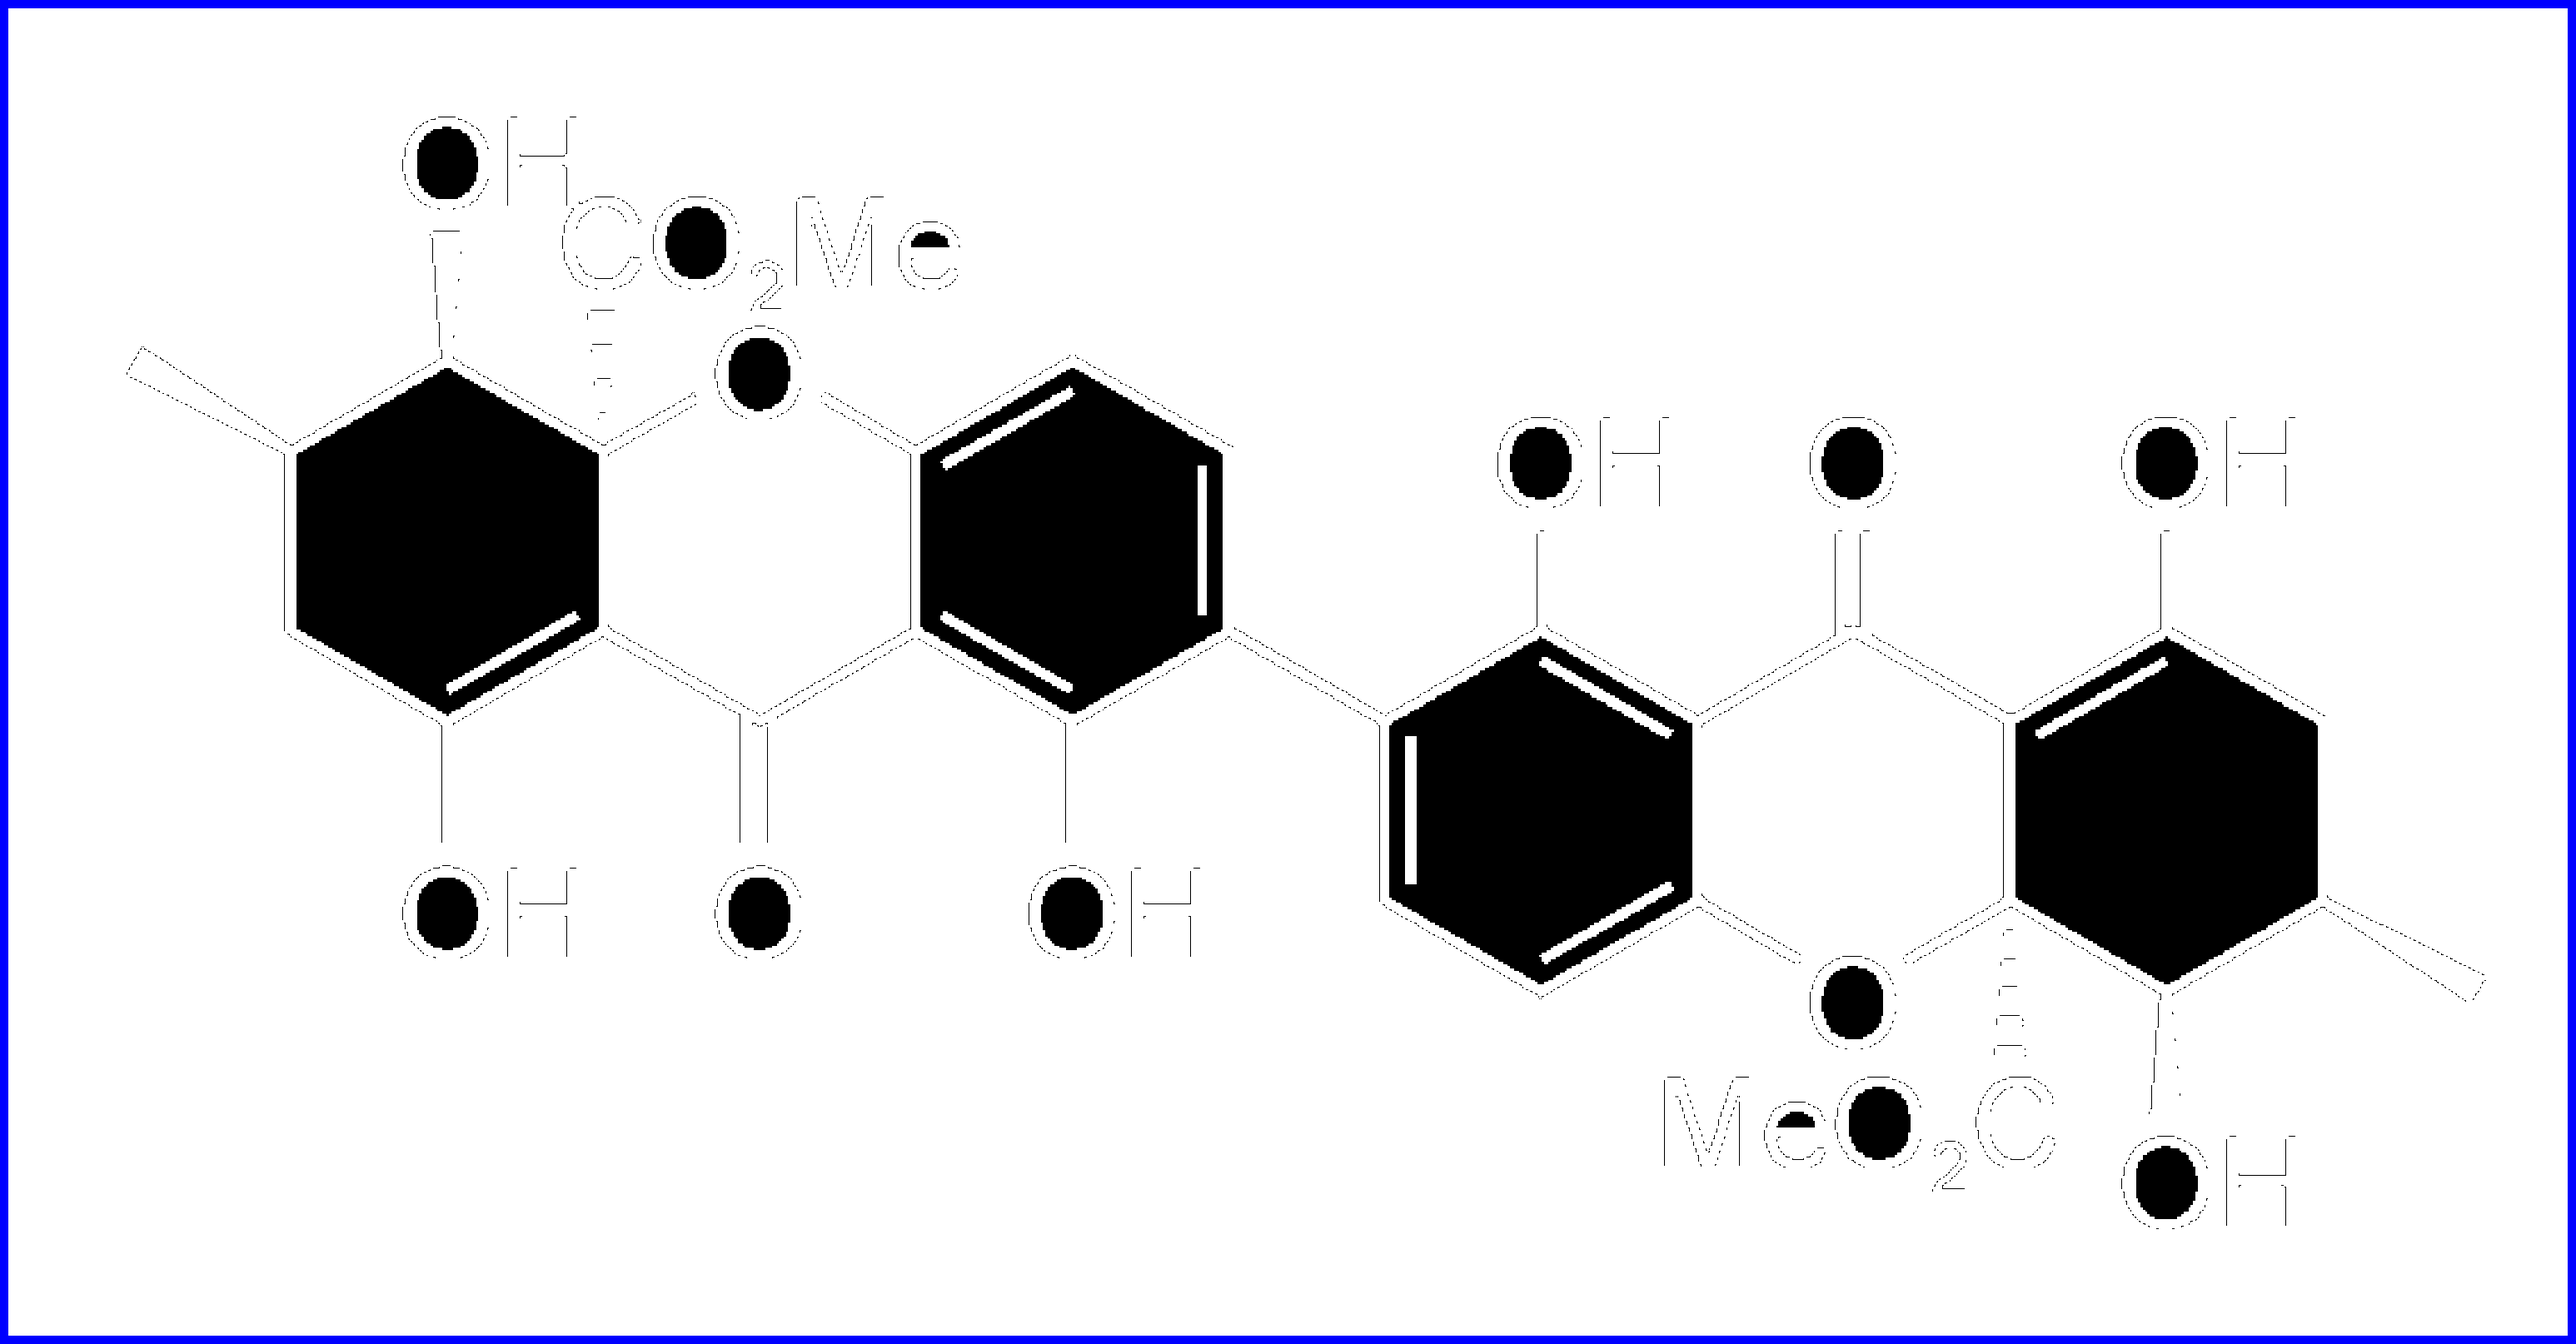
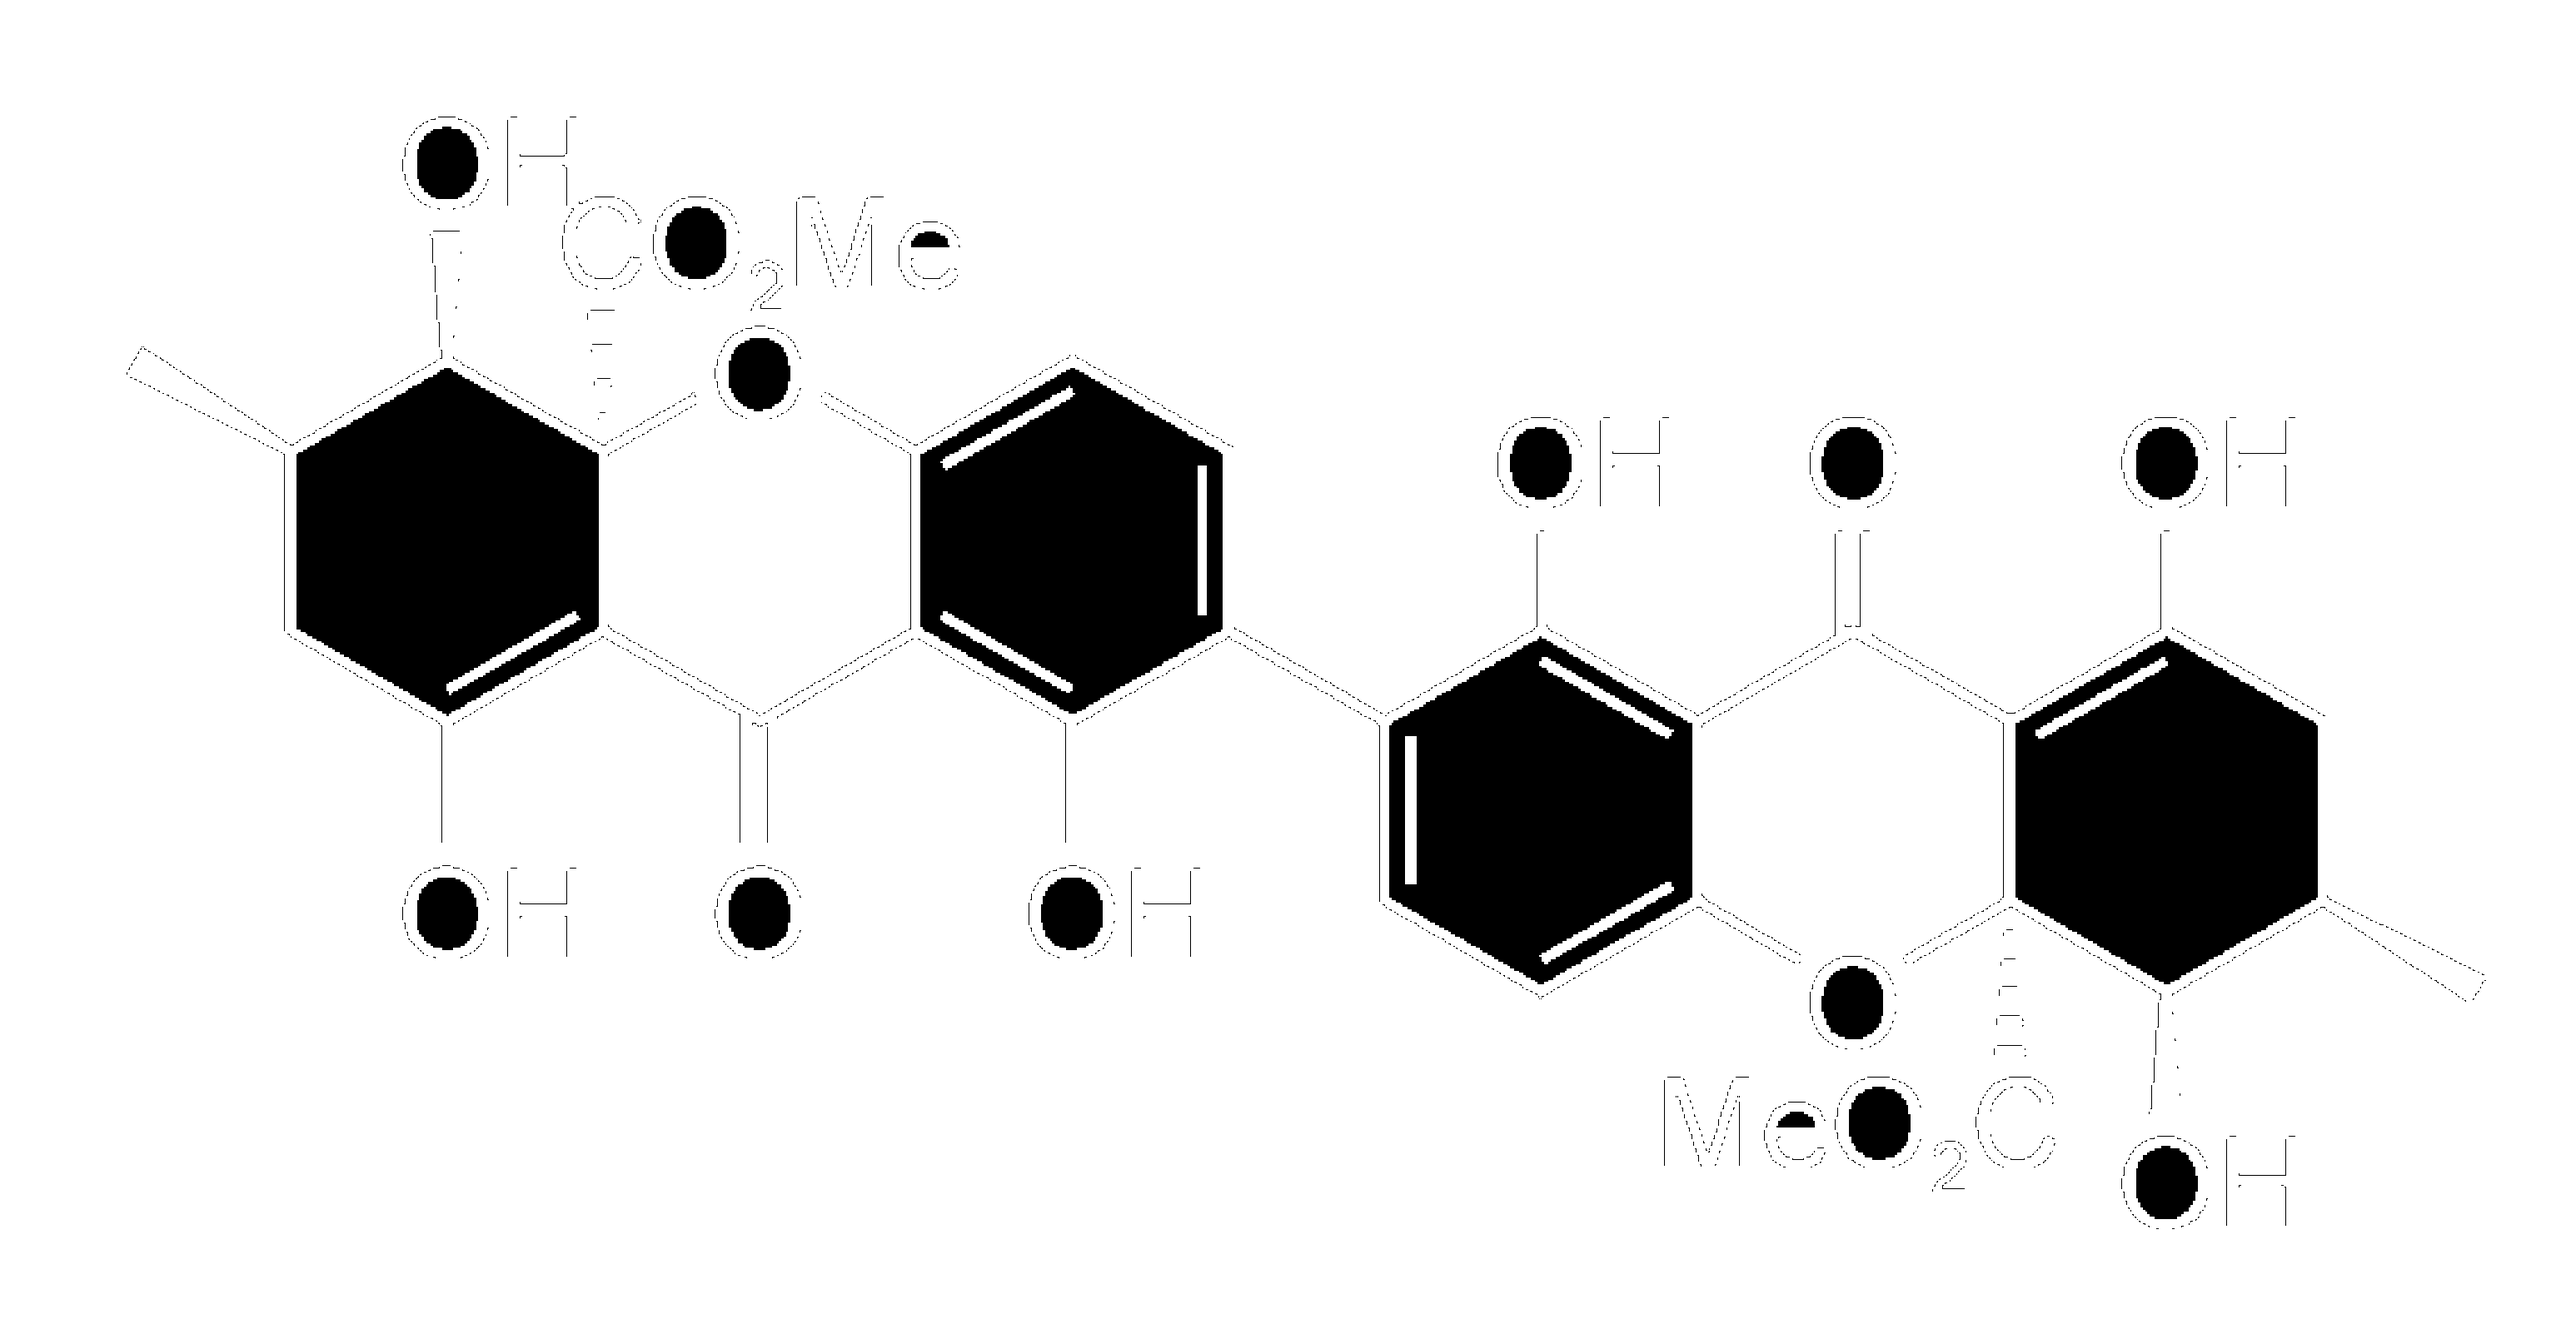
image filtering final version

Changed region(s): [[0.0, 0.0, 1.0, 1.0]]

diff --git a/debug_cluster.py b/debug_cluster.py
@@ -5,12 +5,12 @@ from sklearn.cluster import DBSCAN, HDBSCAN
 from image_processor.detectors import extract_structure_mask
 from image_processor.filters import filter_contours_by_area, distance_weighted_sample, extract_point_cloud  
 from collections import Counter
-from image_processor.img_preprocess import upscale, preprocess, is_this_jpg
+from image_processor.img_preprocess import rescale, preprocess, is_this_jpg
 
 # ===== 可调参数=====
 
-EPS = 40                 # 聚类半径
-MIN_SAMPLES = 70        # 最小点数
+EPS = 70                 # 聚类半径
+MIN_SAMPLES = 7        # 最小点数
 uniform_step = 3
 far_points_per_contour = 10   # 远端采样数
 use_endpoint_boost = True    # 是否强制加入最远端点
@@ -22,8 +22,8 @@ use_endpoint_boost = True    # 是否强制加入最远端点
 def draw_point_cloud(img, points, labels):
     vis = img.copy()
     colors = [
-        (255, 0, 0), (0, 255, 0), (0, 0, 255),
-        (255, 255, 0), (255, 0, 255), (0, 255, 255)
+        (255, 0, 0), (0, 255, 0), (0, 0, 255),(128, 0, 128),(192, 192, 192),
+        (255, 255, 0), (255, 0, 255), (0, 255, 255),(255, 165, 0)
     ]
     for i, p in enumerate(points):
         label = labels[i]
@@ -52,27 +52,27 @@ def debug_distance_weighted_cluster(img_path):
     
     h, w = img.shape[:2]
 
-    if h < 1500:
-        img = upscale( img, scale=int(1500/h) )
+    if h < 1500 or h > 2500:
+        img = rescale( img, scale=1500.0/h )
 
-    edges = extract_structure_mask(img, vis=True)
+    edges = extract_structure_mask(img, vis=False)
 
     contours, _ = cv2.findContours(
         edges, cv2.RETR_EXTERNAL, cv2.CHAIN_APPROX_SIMPLE
     )
 
-    m00 = []
-    for cnt in contours:
-        cnt = cnt.reshape(-1, 2)
-        M = cv2.moments(cnt)
-        m00.append(M["m00"] == 0) # Is this contour very small
+    # m00 = []
+    # for cnt in contours:
+    #     cnt = cnt.reshape(-1, 2)
+    #     M = cv2.moments(cnt)
+    #     m00.append(M["m00"] == 0) # Is this contour very small
 
 
-    if np.any(m00):
-        edges = preprocess(img, ksize, is_jpg)
-        contours, _ = cv2.findContours(
-            edges, cv2.RETR_EXTERNAL, cv2.CHAIN_APPROX_SIMPLE
-        )
+    # if np.any(m00):
+    #     edges = preprocess(img, ksize, is_jpg)
+    #     contours, _ = cv2.findContours(
+    #         edges, cv2.RETR_EXTERNAL, cv2.CHAIN_APPROX_SIMPLE
+    #     )
     '''
     contours = [
         cnt for cnt in contours
@@ -108,17 +108,21 @@ def debug_distance_weighted_cluster(img_path):
     main_label = max(label_counts, key=label_counts.get)
     # 6. 主聚类点 → 主聚类轮廓
     contour_labels = np.full(len(contours), -1)
+    # s_pts_main = [] # skeleton points in main contour
     for i, lbl in enumerate(labels):
-        if lbl == main_label:
+        if point_map[i] != -1 and lbl == main_label:
             contour_labels[point_map[i]] = main_label # NOT -1
+        # elif lbl == main_label:
+            # s_pts_main.append(points[i]) 
+            
     
-    # 7. 主聚类轮廓 -- 主聚类轮廓中的次聚类点 -- 相关次聚类轮廓
-    main_contour_idx = [i for i, cnt in enumerate(contours) if contour_labels[i] == main_label]
-    
+    # # 7. 主聚类轮廓 -- 主聚类轮廓中的次聚类点 -- 相关次聚类轮廓
+    main_contour_idx = [i for i in range(len(contours)) if contour_labels[i] == main_label]
+    # print(len(contours), main_contour_idx)
     sub_cluster_lablels = [lbl for i, lbl in enumerate(labels) if (point_map[i] in main_contour_idx)]
-    
+    # print(set(sub_cluster_lablels))
     for i, lbl in enumerate(labels):
-        if lbl in sub_cluster_lablels:
+        if point_map[i] != -1 and lbl in sub_cluster_lablels:
             contour_labels[point_map[i]] = lbl # NOT -1
 
 
@@ -127,6 +131,10 @@ def debug_distance_weighted_cluster(img_path):
     for i, cnt in enumerate(contours):
         if contour_labels[i] != -1:
             cv2.fillPoly(mask, [cnt], 255)
+    
+    # skeleton points in main contour
+    # for p in s_pts_main:
+        # cv2.circle(mask, (int(p[0]), int(p[1])), 2, 255, -1)
     
     masked = cv2.bitwise_and(img, img, mask=mask)
 
@@ -145,9 +153,13 @@ if __name__ == "__main__":
         "dataset/raw/"+f for f in os.listdir("dataset/raw")
         if f.lower().endswith(('.png', '.jpg', '.jpeg'))
     ]
-    test_images = [
-        "dataset/raw/mol_0101.png",
-    ]
+    # test_images = [
+    #     "dataset/raw/mol_0101.png",
+    #     "dataset/raw/mol_0160.png",
+    #     "dataset/raw/mol_0141.png",
+    #     "dataset/raw/mol_0113.png",
+    #     "dataset/raw/mol_0172.png",
+    # ]
     for path in test_images:
         #if debug_clustering(path):
         if debug_distance_weighted_cluster(path):

diff --git a/image_processor/process.py b/image_processor/process.py
@@ -4,7 +4,7 @@ from sklearn.cluster import DBSCAN, HDBSCAN
 from image_processor.detectors import extract_structure_mask
 from image_processor.filters import filter_contours_by_area, distance_weighted_sample, extract_point_cloud  
 from collections import Counter
-from image_processor.img_preprocess import preprocess, is_this_jpg
+from image_processor.img_preprocess import rescale, preprocess, is_this_jpg
 
 def distance_weighted_cluster(img_path, eps, min_samples, uniform_step, far_points_per_contour, use_endpoint_boost=True):
     is_jpg = is_this_jpg(img_path)
@@ -14,9 +14,10 @@ def distance_weighted_cluster(img_path, eps, min_samples, uniform_step, far_poin
         print(":x: 图片读取失败")
         return
     # 1. 边缘 + 初筛
-    #gray = cv2.cvtColor(img, cv2.COLOR_BGR2GRAY)
-    #blurred = cv2.GaussianBlur(gray, (5, 5), 0)
-    #edges = cv2.Canny(blurred, 50, 150)
+    h, w = img.shape[:2]
+
+    if h < 1500 or h > 2500:
+        img = rescale( img, scale=1500.0/h )
     
     edges = extract_structure_mask(img)
 
@@ -24,18 +25,18 @@ def distance_weighted_cluster(img_path, eps, min_samples, uniform_step, far_poin
         edges, cv2.RETR_EXTERNAL, cv2.CHAIN_APPROX_SIMPLE
     )
 
-    m00 = []
-    for cnt in contours:
-        cnt = cnt.reshape(-1, 2)
-        M = cv2.moments(cnt)
-        m00.append(M["m00"] == 0) # Is this contour very small
+    # m00 = []
+    # for cnt in contours:
+    #     cnt = cnt.reshape(-1, 2)
+    #     M = cv2.moments(cnt)
+    #     m00.append(M["m00"] == 0) # Is this contour very small
 
 
-    if np.any(m00):
-        edges = preprocess(img, ksize, is_jpg)
-        contours, _ = cv2.findContours(
-            edges, cv2.RETR_EXTERNAL, cv2.CHAIN_APPROX_SIMPLE
-        )
+    # if np.any(m00):
+    #     edges = preprocess(img, ksize, is_jpg)
+    #     contours, _ = cv2.findContours(
+    #         edges, cv2.RETR_EXTERNAL, cv2.CHAIN_APPROX_SIMPLE
+    #     )
     
     '''
     contours = [
@@ -47,7 +48,7 @@ def distance_weighted_cluster(img_path, eps, min_samples, uniform_step, far_poin
         print(":warning: 未检测到轮廓")
         return
     # 2. 构建点云
-    points, point_map = extract_point_cloud(contours, uniform_step, far_points_per_contour, use_endpoint_boost)
+    points, point_map = extract_point_cloud(img, contours, uniform_step, far_points_per_contour, use_endpoint_boost)
     
 
     # 3. DBSCAN 聚类
@@ -73,16 +74,16 @@ def distance_weighted_cluster(img_path, eps, min_samples, uniform_step, far_poin
     # 6. 主聚类点 → 主聚类轮廓
     contour_labels = np.full(len(contours), -1)
     for i, lbl in enumerate(labels):
-        if lbl == main_label:
+        if point_map[i] != -1 and lbl == main_label:
             contour_labels[point_map[i]] = main_label
     
     # 7. 主聚类轮廓 -- 主聚类轮廓中的次聚类点 -- 相关次聚类轮廓
-    main_contour_idx = [i for i, cnt in enumerate(contours) if contour_labels[i] == main_label]
+    main_contour_idx = [i for i in range(len(contours)) if contour_labels[i] == main_label]
     
     sub_cluster_lablels = [lbl for i, lbl in enumerate(labels) if point_map[i] in main_contour_idx]
     
     for i, lbl in enumerate(labels):
-        if lbl in sub_cluster_lablels:
+        if point_map[i] != -1 and lbl in sub_cluster_lablels:
             contour_labels[point_map[i]] = lbl
 
 
@@ -95,8 +96,9 @@ def distance_weighted_cluster(img_path, eps, min_samples, uniform_step, far_poin
     masked = cv2.bitwise_and(img, img, mask=mask)
     #cv2.imshow("2. Main Structure Mask", mask)
     #cv2.imshow("3. Final Result", masked)
+    gray = cv2.cvtColor(masked, cv2.COLOR_BGR2GRAY)
 
-    return masked
+    return gray
     
 
 def save_for_ocr(mask, out_path, invert=True, pad=10):

diff --git a/image_processor/filters.py b/image_processor/filters.py
@@ -47,16 +47,18 @@ def distance_weighted_sample(cnt, uniform_step=3, n_samples=8, boost_endpoints=T
     # 距离权重
     probs = dists / dists.sum()
     
-    if n_samples < len(cnt) * 0.3:
-        n_samples = int(len(cnt) * 0.3)
+    replace = False
+    if n_samples < len(cnt) * 0.1:
+        n_samples = int(len(cnt) * 0.1)
     elif n_samples > len(cnt)-5:
         n_samples = len(cnt) - 1
+        replace = True
     
-
+    # print(len(cnt))
     idx_weighted = np.random.choice(
         len(cnt),
         size=n_samples,
-        replace=False,
+        replace=replace,
         p=probs
     )
     
@@ -83,24 +85,24 @@ def sample_skeleton_points(img, n_samples=30):
     if len(pts) == 0:
         return np.empty((0, 2))
     
-    if n_samples < len(pts) * 0.3:
-        n_samples = int(len(pts) * 0.3)
+    if n_samples < len(pts) * 0.2:
+        n_samples = int(len(pts) * 0.2)
     elif n_samples > len(pts)-5:
         n_samples = len(pts) - 1
-    # 重心
-    center = pts.mean(axis=0)
-    # 距离权重
-    dists = np.linalg.norm(pts - center, axis=1)
-    probs = dists / dists.sum()
-    idx = np.random.choice(
-                           len(pts),
-                           size=min(n_samples, len(pts)),
-                           replace=False,
-                           p=probs
-    )
+    # # 重心
+    # center = pts.mean(axis=0)
+    # # 距离权重
+    # dists = np.linalg.norm(pts - center, axis=1)
+    # probs = dists / dists.sum()
+    # idx = np.random.choice(
+    #                        len(pts),
+    #                        size=min(n_samples, len(pts)),
+    #                        replace=False,
+    #                        p=probs
+    # )
     
-    skel_pts = np.array([(x, y) for (y, x) in pts[idx]])
-    
+    # skel_pts = np.array([(x, y) for (y, x) in pts[idx]])
+    skel_pts = np.array([(x, y) for (y, x) in pts[::int(len(pts)/n_samples)]])
     return skel_pts
 
 def assign_skeleton_to_contours(skel_pts, contours, max_dist=10):
@@ -110,22 +112,24 @@ def assign_skeleton_to_contours(skel_pts, contours, max_dist=10):
     skeleton_owner: N (轮廓索引)
     """
     skel_pts = skel_pts.astype(np.uint8)
-    owner = []
+    
+    return np.repeat(-1, len(skel_pts))
+    # owner = []
 
-    for pt in skel_pts:
+    # for pt in skel_pts:
 
-        best_i = -1
-        best_d = max_dist
+    #     best_i = -1
+    #     best_d = max_dist
 
-        for i, cnt in enumerate(contours):
-            d = cv2.pointPolygonTest(cnt, pt, True)
-            if d >= 0 and d < best_d:
-                best_d = d
-                best_i = i
+    #     for i, cnt in enumerate(contours):
+    #         d = cv2.pointPolygonTest(cnt, pt, True)
+    #         if d >= 0 and d < best_d:
+    #             best_d = d
+    #             best_i = i
 
-        owner.append(best_i)
+    #     owner.append(best_i)
 
-    return np.array(owner)
+    # return np.array(owner)
 
 def extract_point_cloud(img, contours, uniform_step, far_points_per_contour, use_endpoint_boost):
     """
@@ -155,15 +159,12 @@ def extract_point_cloud(img, contours, uniform_step, far_points_per_contour, use
             points.append(p.tolist())
             point_map.append(i)
     
-    #skeletons = sample_skeleton(img)
-
-    #for j, skel in enumerate(skeletons):
     s_pts = sample_skeleton_points(img)
     
     skel_owner = assign_skeleton_to_contours(s_pts, contours)
     for j, p in enumerate(s_pts):
         points.append(p.tolist())
         point_map.append( skel_owner[j] )
-
+    
     return np.array(points), point_map
 

diff --git a/batch_img_process.py b/batch_img_process.py
@@ -2,8 +2,10 @@ import os
 import cv2
 from concurrent.futures import ProcessPoolExecutor, as_completed
 from image_processor.process import process_one_image  # 你已有的处理函数
-RAW_DIR = "../ocr-img-test/raw"
-OUT_DIR = "../ocr-img-test/processed"
+RAW_DIR = "../1_v2/pic"
+OUT_DIR = "../1_v2/pic_processed"
+# RAW_DIR = "../ocr-img-test/raw"
+# OUT_DIR = "../ocr-img-test/processed"
 os.makedirs(OUT_DIR, exist_ok=True)
 def worker(img_name):
     try:

diff --git a/image_processor/img_preprocess.py b/image_processor/img_preprocess.py
@@ -7,7 +7,7 @@ def is_this_jpg(img_path):
     else:
         return False
 
-def upscale(img, scale=2):
+def rescale(img, scale=2):
     return cv2.resize(
         img,
         None,
